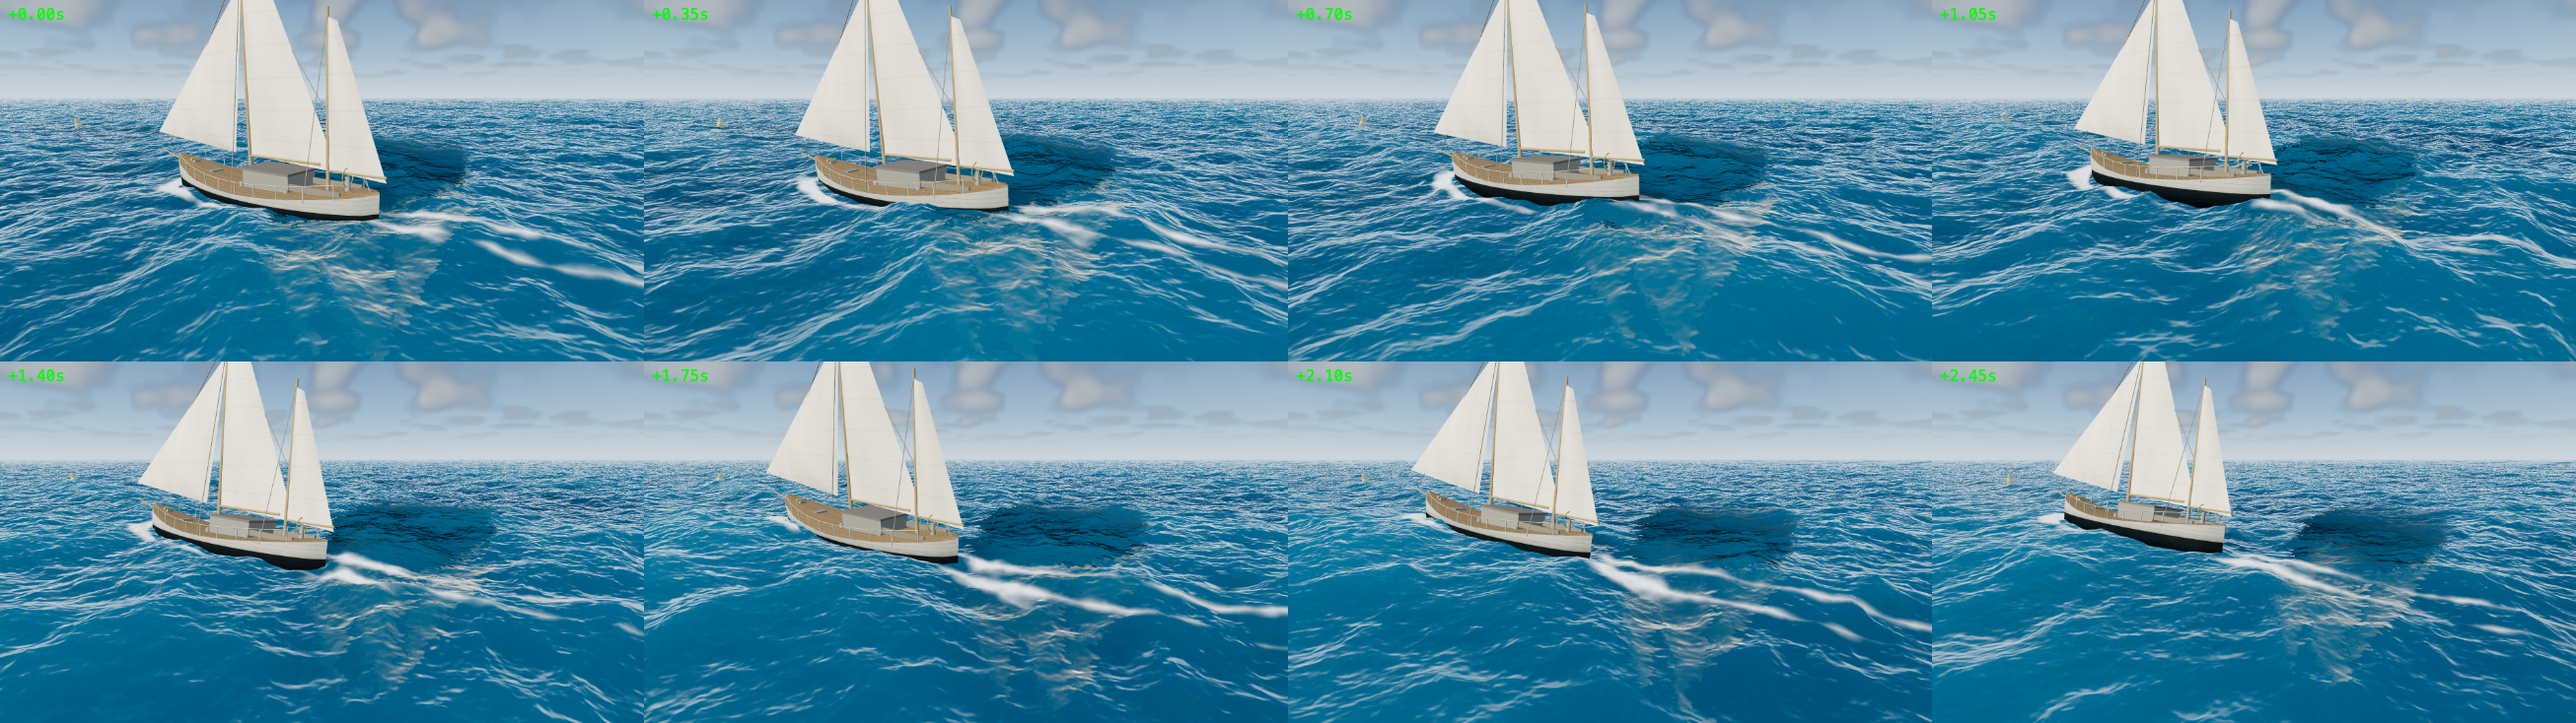
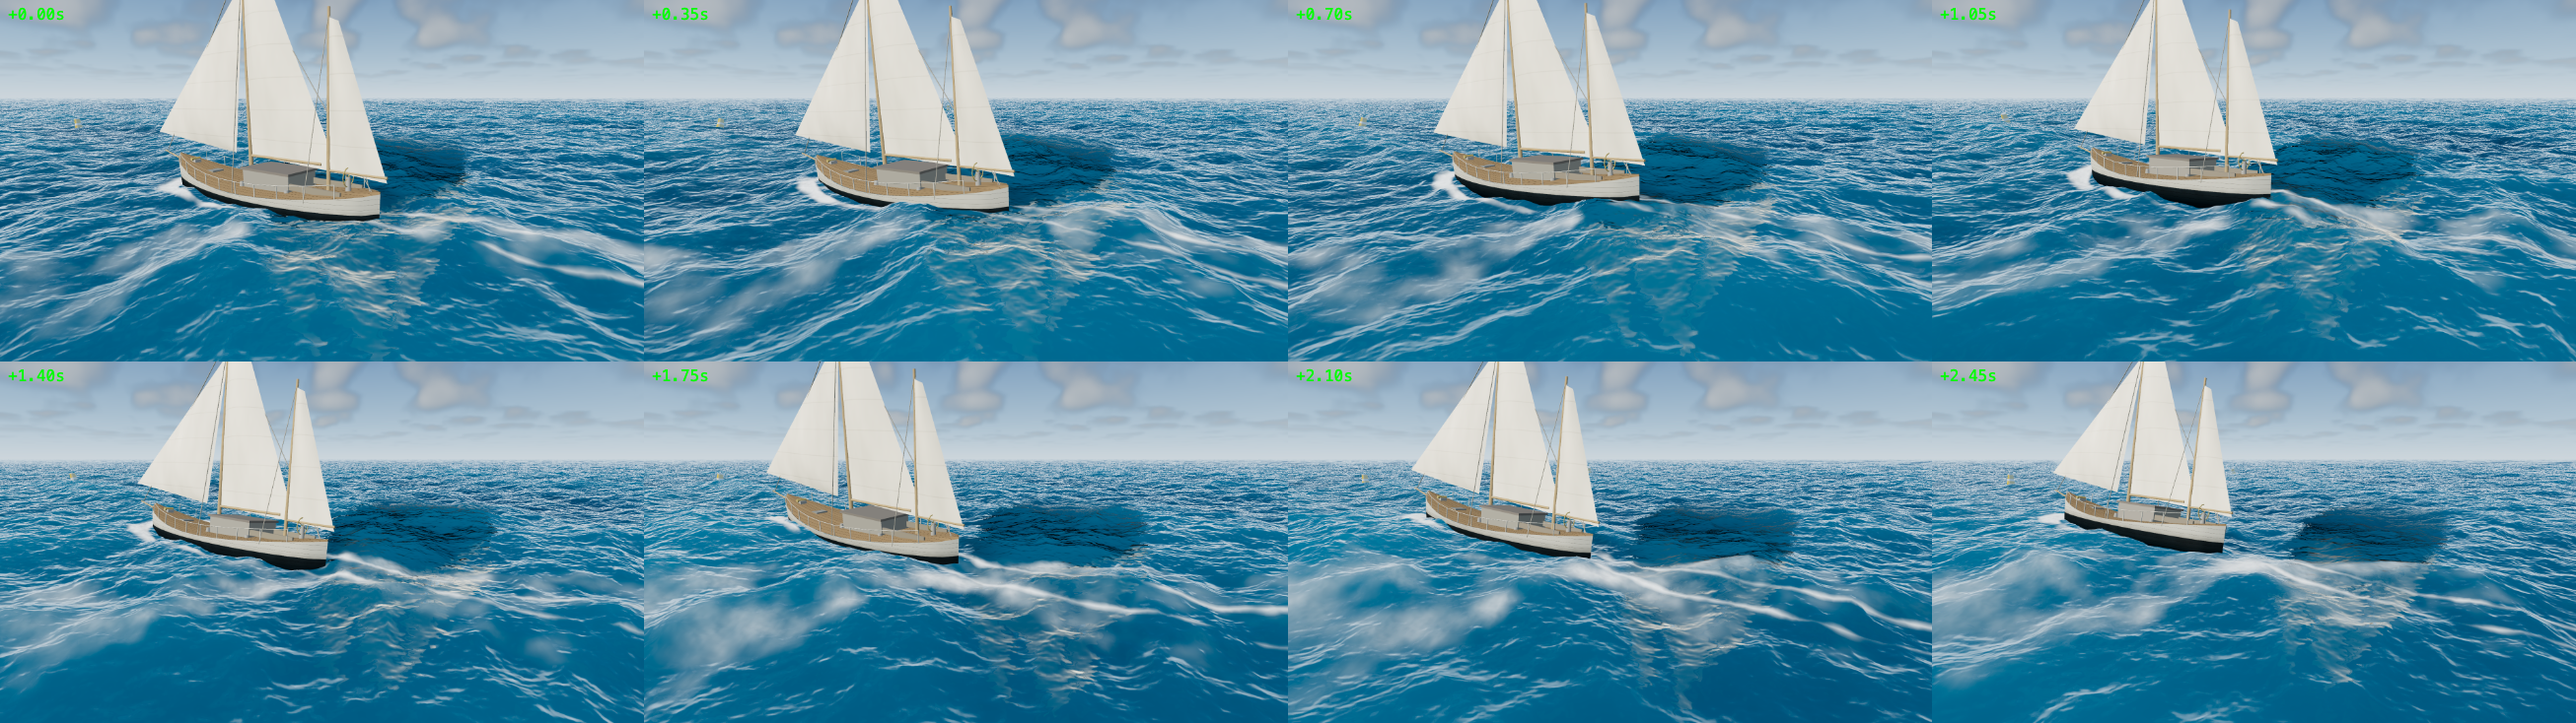
Move the crest mask to fragment rate and the wake into the world
Both of the reported problems had a structural cause, and neither was where
the previous attempts to fix them were aimed.

The flicker was the crest mask being evaluated per *vertex*. The ocean mesh is
re-centred on the camera every frame with no snap, so its vertices land on
different world positions each frame; running a hard threshold there and
interpolating means the mask flips between frames and the flip is smeared
across an entire triangle. That is why it got worse the further you zoomed
out — the triangles get bigger. The fwidth filter added earlier was treating
the symptom at the wrong end of the pipeline.

The cascades are world-space and stable, so the mask is now derived per pixel
from the divergence already stored in the displacement textures' alpha. Three
extra fetches, and the instability is gone at its source rather than being
averaged over afterwards. The Gerstner path still uses the interpolated vertex
value; it has no world-space texture to sample.

Measured at true steady state (forty seconds of settling, since the history's
lifetime is thirty-four): foam on 2.584% of water pixels changing by more than
60/255 in a thirtieth of a second, foam off 2.734%. Foam now contributes
nothing measurable to inter-frame change. It was the dominant term before.

The white tail was the wake being drawn in the hull's frame. Rigidly attached
to the boat, it reads as something towed along rather than as a disturbance
[…]

diff --git a/src/ocean/material.js b/src/ocean/material.js
@@ -173,6 +173,10 @@ export function createOceanMaterial( env, field, sky, opts = {} ) {
 		// Sub-pixel slope variance, accumulated below and turned into roughness.
 		const sigma = float( 0 ).toVar( 'slopeVar' );
 
+		// Fragment-rate crest mask; falls back to the interpolated vertex value on
+		// the Gerstner path, which has no world-space texture to sample.
+		const crestMask = vFoam.toVar( 'crestMask' );
+
 		const invY = float( 1 ).div( max( Nw.y, float( 0.06 ) ) );
 		const grad = vec2( Nw.x.mul( invY ), Nw.z.mul( invY ) ).toVar( 'grad' );
 
@@ -205,6 +209,33 @@ export function createOceanMaterial( env, field, sky, opts = {} ) {
 			}
 
 			grad.assign( g.negate() );
+
+			// Crest mask at fragment rate, not interpolated from the vertices.
+			//
+			// The ocean mesh is re-centred on the camera every frame with no snap, so
+			// its vertices land on different world positions each frame. Running a
+			// hard threshold there and interpolating the result means the mask flips
+			// between frames and the flip is smeared across a whole triangle — which
+			// is the flicker, and it gets worse the further out you zoom because the
+			// triangles get bigger. The cascades are world-space and stable, so
+			// deriving the mask per pixel from them removes the instability at its
+			// source rather than filtering it afterwards.
+			const foldF = float( 0 ).toVar( 'foldFrag' );
+
+			for ( let c = 0; c < spectral.sizes.length; c ++ ) {
+
+				const [ a, b ] = spectral.slopeFade[ c ];
+				const fade = oneMinus( smoothstep( a, b, vRadial ) );
+				foldF.addAssign(
+					sampleAt( spectral.disp[ c ], vRestXZ, spectral.sizes[ c ] ).w
+						.mul( fade ).mul( grpF ).mul( FOLD_WEIGHT[ c ] ?? 0.15 )
+				);
+
+			}
+
+			crestMask.assign( foamFromJacobian(
+				foldF.add( 1.0 ), length( g ), u.foamThreshold, u.foamSharpness
+			) );
 
 			// A little procedural noise still helps below the finest cascade cell
 			// (about 7 cm), where the spectrum simply has no data.
@@ -557,7 +588,7 @@ export function createOceanMaterial( env, field, sky, opts = {} ) {
 			vec3( P.xz.mul( 0.085 ).add( foamDrift.mul( 0.4 ) ).add( 7.1 ), u.time.mul( 0.045 ) ), 2, 2.0, 0.5
 		).mul( 0.5 ).add( 0.5 ).toVar( 'foamPatch' );
 
-		const foamRaw = vFoam.mul( u.foamAmount ).toVar( 'foamRaw' );
+		const foamRaw = crestMask.mul( u.foamAmount ).toVar( 'foamRaw' );
 
 		// Waterline. A moored hull still works the water against its planking, and
 		// the resulting collar of aerated foam is the one cue that reliably reads as
@@ -604,17 +635,20 @@ export function createOceanMaterial( env, field, sky, opts = {} ) {
 
 			// Bow wave. A hull pushing water has a bright, hard shoulder ahead of the
 			// stem — brighter than anything in the wake, because the water there is
-			// being lifted and aerated rather than merely disturbed. Without it the
-			// boat reads as being dragged rather than driven.
+			// being lifted and aerated rather than merely disturbed.
+			//
+			// The *wake* is not drawn here any more. Drawn in the hull's frame it was
+			// rigidly attached to the boat — a white tail towed along behind her
+			// rather than a disturbance left in the water. It is deposited into the
+			// world-space foam history instead, where it stays put and decays, which
+			// is what a wake actually does.
 			const ahead = max( hullLocalOut.y.sub( u.vesselHalf.y.mul( 0.55 ) ), float( 0.0 ) ).toVar( 'bowAhead' );
 			const bow = exp( abs( across.sub( ahead.mul( 0.62 ).add( 0.9 ) ) ).mul( - 2.2 ) )
 				.mul( oneMinus( smoothstep( 0.0, 5.5, ahead ) ) )
 				.mul( u.vesselSpeed )
 				.toVar( 'bowWave' );
 
-			wake.addAssign( bow.mul( 0.55 ) );
-
-			foamRaw.assign( max( foamRaw, collar.add( wake ).mul( torn ).mul( 1.45 ) ) );
+			foamRaw.assign( max( foamRaw, collar.add( bow.mul( 0.6 ) ).mul( torn ).mul( 1.45 ) ) );
 
 		} );
 

diff --git a/src/ocean/foam.js b/src/ocean/foam.js
@@ -20,7 +20,7 @@
 // in the same pass.
 
 import { HalfFloatType, LinearFilter, Mesh, MeshBasicNodeMaterial, OrthographicCamera, PlaneGeometry, RGBAFormat, RenderTarget, Scene, Vector2 } from 'three/webgpu';
-import { Fn, float, length, max, min, saturate, smoothstep, step, texture, uniform, uv, vec2, vec3, vec4 } from 'three/tsl';
+import { Fn, If, abs, exp, float, length, max, min, oneMinus, saturate, smoothstep, step, texture, uniform, uv, vec2, vec3, vec4 } from 'three/tsl';
 
 import { createWaveEvaluator, foamFromJacobian } from './waves.js';
 
@@ -178,6 +178,39 @@ export class FoamHistory {
 				).mul( this.uSourceGain ) );
 
 			}
+
+			/* --- the vessel's wake, laid into the world ------------------ */
+
+			// This is the whole point of putting it here rather than in the surface
+			// shader. A wake drawn in the hull's frame is rigidly attached to the
+			// boat and reads as a white tail being towed; deposited into the history
+			// it stays where the water was disturbed, decays on the buffer's own
+			// clock, and drifts downwind with everything else.
+			If( u.vesselMix.greaterThan( 0.001 ), () => {
+
+				const rel = worldXZ.sub( u.vesselPos.xz ).toVar( 'wakeRel' );
+				const c = u.vesselDir.x, sn = u.vesselDir.y;
+				const local = vec2(
+					rel.x.mul( c ).sub( rel.y.mul( sn ) ),
+					rel.x.mul( sn ).add( rel.y.mul( c ) )
+				).toVar( 'wakeLocal' );
+
+				const astern = max( local.y.negate().sub( u.vesselHalf.y.mul( 0.7 ) ), float( 0.0 ) ).toVar( 'wAstern' );
+				const across = abs( local.x ).toVar( 'wAcross' );
+
+				// Kelvin arms at the fixed half-angle, plus the churn between them.
+				// Only the freshly disturbed water is written; the buffer's decay
+				// does the rest, so there is no length constant to tune here.
+				const arm = exp( abs( across.sub( astern.mul( 0.354 ) ) ).mul( - 1.9 ) );
+				const trail = exp( across.div( astern.mul( 0.16 ).add( 1.6 ) ).mul( - 2.2 ) );
+
+				const fresh = smoothstep( 0.0, 3.0, astern ).mul( oneMinus( smoothstep( 4.0, 26.0, astern ) ) );
+
+				source.assign( max( source,
+					arm.mul( 0.85 ).add( trail.mul( 0.5 ) ).mul( fresh ).mul( u.vesselSpeed )
+				) );
+
+			} );
 
 			// max(), not add(): foam saturates. Adding would let a persistent
 			// crest run away to a hard white slab.
